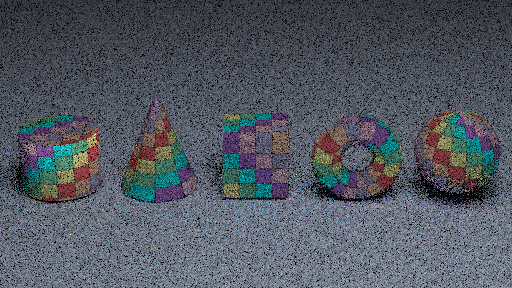
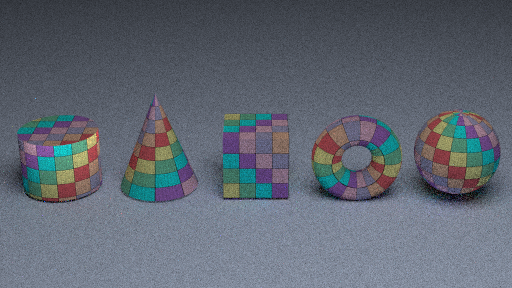
Fixes

diff --git a/UI/Examples/example_glfw_opengl3/main.cpp b/UI/Examples/example_glfw_opengl3/main.cpp
@@ -132,6 +132,7 @@ bool renderUseGammaCorrection = true;
 bool renderAutoDenoise = true;
 
 std::string saveFilePath;
+std::string saveDenoisedFilePath;
 
 static bool _scrollToBottom = false;
 static ImGuiTextBuffer _textBuffer;
@@ -175,6 +176,8 @@ HANDLE ghJob = NULL;
 
 HRESULT runExternalProgram(string externalProgram, string arguments);
 HRESULT runExternalProgram2(string externalProgram, string arguments, string outputPath);
+
+DWORD __stdcall readFullDataFromExtProgram(void* argh);
 
 
 void stopRendering()
@@ -406,7 +409,7 @@ DWORD __stdcall readOuputFromExtProgram1(void* argh)
                         runExternalProgram2("Denoiser.exe", std::format("-quiet -input {} -output {} -hdr {}", saveFilePath, outputPath, 0), outputPath);
                     }
                 }
-
+                
                 _textBuffer.appendf(data.c_str());
                 _scrollToBottom = true;
             }
@@ -480,6 +483,19 @@ DWORD __stdcall readLegacyDataFromExtProgram(void* argh)
             }
             else
             {
+                if (data.starts_with("[DENOISER] Image saved successfully."))
+                {
+                    if (!saveDenoisedFilePath.empty())
+                    {
+                        // Allocate memory for outputPath to ensure it's still valid during thread execution
+                        char* outputFilePathCopy = new char[saveDenoisedFilePath.size() + 1]; // +1 for null terminator
+                        strcpy_s(outputFilePathCopy, saveDenoisedFilePath.size() + 1, saveDenoisedFilePath.c_str());
+
+                        // Pass the dynamically allocated copy to the thread
+                        m_readStandardOutputThread = CreateThread(0, 0, readFullDataFromExtProgram, reinterpret_cast<void*>(outputFilePathCopy), 0, NULL);
+                    }
+                }
+
                 _textBuffer.appendf(data.c_str());
                 _scrollToBottom = true;
             }
@@ -572,7 +588,7 @@ DWORD __stdcall readFullDataFromExtProgram(void* argh)
     renderer.renderAll();
 
     isRendering = false;
-    renderStatus = "Idle8";
+    renderStatus = "Idle";
     renderProgress = 100.0;
 
     // Clean up resources
@@ -752,12 +768,17 @@ HRESULT runExternalProgram2(string externalProgram, string arguments, string out
     }
     else
     {
+        saveDenoisedFilePath = outputPath;
+
         // Allocate memory for outputPath to ensure it's still valid during thread execution
-        char* outputFilePathCopy = new char[outputPath.size() + 1]; // +1 for null terminator
-        strcpy_s(outputFilePathCopy, outputPath.size() + 1, outputPath.c_str());
+        //char* outputFilePathCopy = new char[outputPath.size() + 1]; // +1 for null terminator
+        //strcpy_s(outputFilePathCopy, outputPath.size() + 1, outputPath.c_str());
 
         // Pass the dynamically allocated copy to the thread
-        m_readStandardOutputThread = CreateThread(0, 0, readFullDataFromExtProgram, reinterpret_cast<void*>(outputFilePathCopy), 0, NULL);
+        //m_readStandardOutputThread = CreateThread(0, 0, readFullDataFromExtProgram, reinterpret_cast<void*>(outputFilePathCopy), 0, NULL);
+
+
+        m_readStandardOutputThread = CreateThread(0, 0, readLegacyDataFromExtProgram, NULL, 0, NULL);
     }
 
     return S_OK;

diff --git a/UI/Examples/example_glfw_opengl3/managers/renderManager.cpp b/UI/Examples/example_glfw_opengl3/managers/renderManager.cpp
@@ -109,6 +109,10 @@ void renderManager::addPixel(unsigned int index, plotPixel *plotPixel)
             string ss = e.what();
         }
     }
+    else
+    {
+        int zzz = 0;
+    }
 }
 
 void renderManager::addPixelToFrameBuffer(unsigned int x, unsigned int y, unsigned int r, unsigned int g, unsigned int b, unsigned int a)
